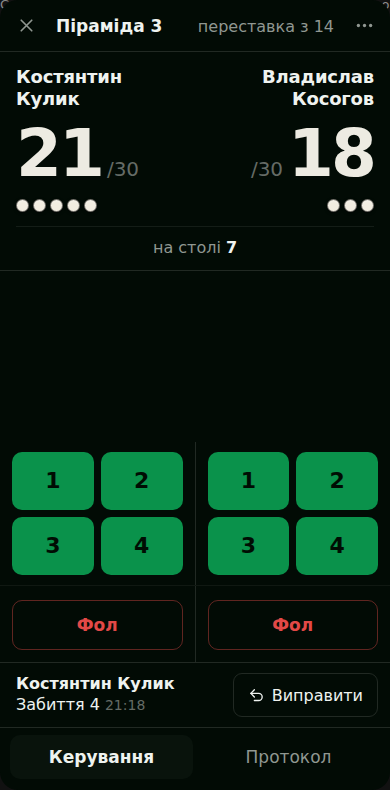
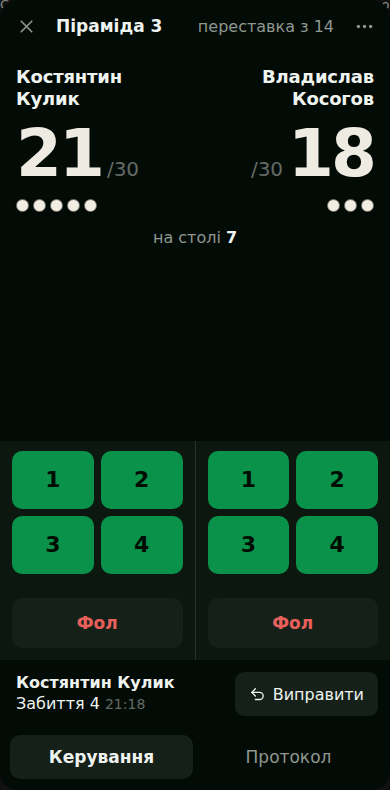
Replace dividers with tonal surfaces on the control screen

diff --git a/.tracker/match-control-shell-spec.md b/.tracker/match-control-shell-spec.md
@@ -78,6 +78,23 @@ Invariants:
   therefore land in the same thumb region on every screen size and in every game.
 - Slack collapses to zero before anything else shrinks. Nothing else shrinks.
 - Must fit 375×667 through 430×932 in every state listed in §12.
+  **Surfaces carry the structure; lines almost never do.** Three tones, no dividers between them:
+
+| Region                                                        | Surface       |
+| ------------------------------------------------------------- | ------------- |
+| Top bar, Board, slack, Last Action Bar, tabs                  | `--c-base`    |
+| Action Stack — Selector, Primary, Secondary, and any Takeover | `--c-raised`  |
+| Controls sitting on the raised surface, and the active tab    | `--c-overlay` |
+
+The raised block running from the Selector zone down through the Secondary zone is what says _this
+is the part you touch_, and it does that job better than the six hairlines it replaces. Keep the
+tonal steps far enough apart to survive a dim screen at an angle in a club; the values were pushed
+apart once already for exactly this reason, and they need checking on a real phone.
+
+The **only** rule on this screen is the lane spine. It divides two otherwise identical halves,
+which is what a line is for. Do not reintroduce borders between the Board and the stack, above the
+Secondary zone, above the Last Action Bar, or under the top bar.
+
 - At `≥768px` the shell content is capped at `560px` and centred. This is deliberate: the screen
   is a phone-shaped task surface used at the table, and a wide desktop variant would need its own
   interaction study. Revisit only with evidence.
@@ -129,7 +146,8 @@ The chunking is the point of the feature. Long Pyramid runs long enough that she
 a player forgets to shelf a ball, or miscounts — so this row exists to be compared against the
 physical shelf. Chunking makes the app side readable at a glance so only the shelf needs counting.
 
-**4. Aux row.** Optional, centred, 16px `--t-secondary`, hairline rule above.
+**4. Aux row.** Optional, centred, 16px `--t-secondary`, separated by spacing only. It reads as part
+of the reconciliation block above it, which is correct: potted plus on-table is the whole rack.
 
 - `free-pyramid-long`: `на столі {ballsOnTable}` with the numeral in `--t-primary`/600.
 - All others: absent.
@@ -156,10 +174,12 @@ sit in the path between them.
 
 **Primary zone.** Two lanes split by a 1px spine. Filled `--a-green`, 18px/600, `min-height: 60px`.
 
-**Secondary zone.** Two lanes, outlined, 17px, `min-height: 50px`, preceded by a hairline and 14px
-of padding. Recessive weight and the extra separation are what keep `Фол` out of the tap path from
-the tray. `foul.commit` uses a red outline and red text; every other secondary Control uses the
-neutral outline.
+**Secondary zone.** Two lanes on `--c-overlay`, 17px, `min-height: 50px`, separated from the
+Primary zone by 14px of padding rather than a rule. Recessive weight and the extra separation are
+what keep `Фол` out of the tap path from the tray. `foul.commit` takes red text on the same
+recessed surface; every other secondary Control takes `--t-primary`. No outlines — a red-outlined
+button reads louder than a filled recessed one, which is backwards for a control we deliberately
+demoted.
 
 **Arity within a lane.** Deterministic, no measurement:
 
@@ -213,7 +233,22 @@ the tabs, in both normal and Takeover states.
 - Line one: actor `displayName`, 16px/600.
 - Line two: the rendered Protocol message, 16px, with the resulting score at 14px `--t-muted`.
   Two lines maximum.
-- Right: `Виправити`, outlined, `min-height: 44px`, 16px, with a counter-clockwise arrow icon.
+- Right: `Виправити` on `--c-overlay`, `min-height: 44px`, 16px, with a counter-clockwise arrow
+  icon.
+
+The bar sits on `--c-base`, dropping back out of the raised Action Stack. That tonal break is
+load-bearing: while the bar shared the stack's surface and left padding, it read as belonging to
+seat A's lane, so an entry about seat B looked misfiled.
+
+**Always name the actor, and never let position carry it.** The single most likely mistake this bar
+exists to catch is recording an action against the wrong player, and position is the weakest
+possible signal for precisely that error — a wrong-seat tap would show up only as a subtle shift,
+while a name states it in words. This is not duplication of the Board: the name above labels a lane
+in the live state, the name here labels a past event.
+
+**Do not mirror the bar for seat B, and never move `Виправити`.** A fix button that changes sides
+depending on who last acted is a moving target for a control pressed under time pressure, sometimes
+twice in succession.
 
 This is the confirmation loop. The observed failure was a player mis-tapping and then searching for
 a fix, so the record of what was just accepted and the control that corrects it are deliberately
@@ -231,8 +266,8 @@ correct distance for controls used in under 1% of matches.
 - Reuse the existing `Sheet` primitive from `@/components/ui`, bottom-anchored.
 - Title `Інші дії`, 19px/600, with a ✕ dismiss.
 - One group per participant, headed by their `displayName` at 16px/600 `--t-secondary`, separated
-  by a hairline. Within a group, one outlined button per tertiary Control, full width,
-  `min-height: 56px`, 17px.
+  by spacing rather than a rule. Within a group, one button per tertiary Control on `--c-overlay`,
+  full width, `min-height: 56px`, 17px.
 - Groups render in seat order A then B, and a group with no Controls is omitted.
 
 ## 10. Tokens
@@ -245,8 +280,8 @@ worse. Do not introduce generated or per-player colours without a separate decis
 | ----------------------------------- | -------------------------------------- |
 | Commit / primary action             | `--a-green`                            |
 | Pending selection, not yet recorded | `--a-amber` (tray selection ring only) |
-| Foul                                | `--a-red`, outline and text only       |
-| Rulebook note                       | `--a-blue`, border and 10% wash        |
+| Foul                                | `--a-red` text on `--c-overlay`        |
+| Rulebook note                       | `--a-blue` at a 16% wash, no border    |
 | Score numerals                      | `--bone`                               |
 
 Typography uses the system stack. No webfont: the app must stay usable on club connections.
